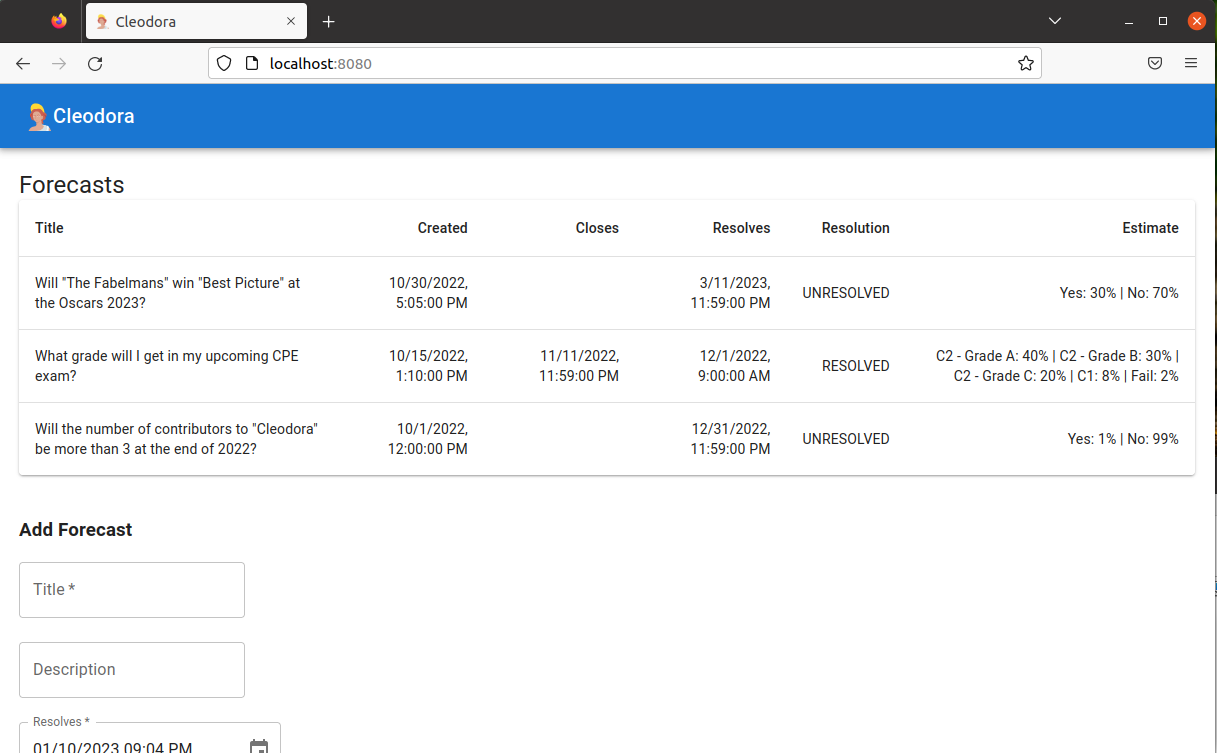
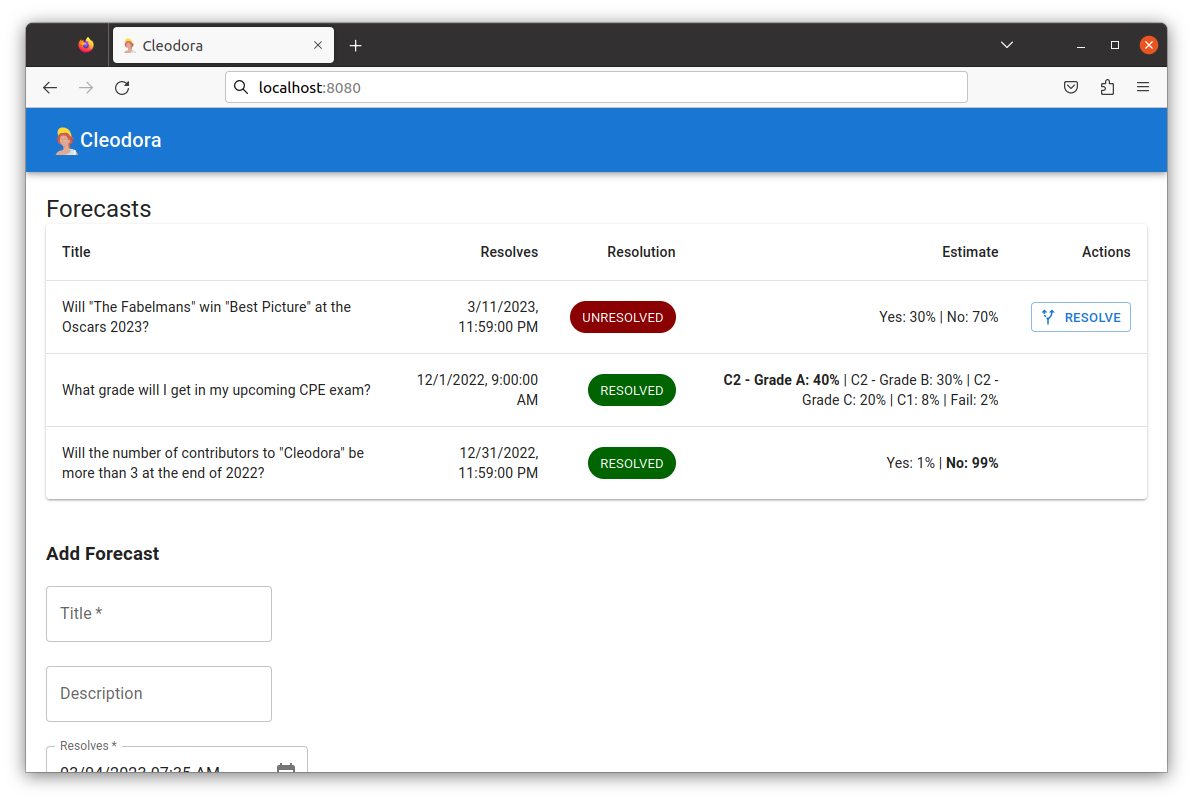
website: update for v0.2.0 (#292)

diff --git a/website/content/docs/user/cleosrv.md b/website/content/docs/user/cleosrv.md
@@ -11,7 +11,7 @@ bookToc: true
 
 # cleosrv
 
-**Latest release: 0.1.1**
+**Latest release: 0.2.0**
 
 `cleosrv` (Cleodora server) is the main application. It includes a beautiful
 web UI (user interface) that you can access from your browser as well as a
@@ -26,10 +26,10 @@ automatically created it if does not exist.
 ## Installing cleosrv
 
 Download the latest release for
-[Windows (64bit)](https://github.com/cleodora-forecasting/cleodora/releases/download/v0.1.1/cleosrv_0.1.1_windows_amd64.zip),
-[Linux (64bit)](https://github.com/cleodora-forecasting/cleodora/releases/download/v0.1.1/cleosrv_0.1.1_linux_amd64.tar.gz),
-[Linux ARM (64bit)](https://github.com/cleodora-forecasting/cleodora/releases/download/v0.1.1/cleosrv_0.1.1_linux_arm64.tar.gz) or
-[Mac OS (64bit)](https://github.com/cleodora-forecasting/cleodora/releases/download/v0.1.1/cleosrv_0.1.1_darwin_amd64.tar.gz).
+[Windows (64bit)](https://github.com/cleodora-forecasting/cleodora/releases/download/v0.2.0/cleosrv_0.2.0_Windows_64bit.zip),
+[Linux (64bit)](https://github.com/cleodora-forecasting/cleodora/releases/download/v0.2.0/cleosrv_0.2.0_Linux_64bit.tar.gz),
+[Linux ARM (64bit)](https://github.com/cleodora-forecasting/cleodora/releases/download/v0.2.0/cleosrv_0.2.0_Linux_ARM64.tar.gz) or
+[MacOS (64bit)](https://github.com/cleodora-forecasting/cleodora/releases/download/v0.2.0/cleosrv_0.2.0_macOS_64bit.tar.gz).
 
 Unpack the archive wherever you want it. There will only be a single executable
 inside named `cleosrv` or `cleosrv.exe`.

diff --git a/website/content/docs/user/cleoc.md b/website/content/docs/user/cleoc.md
@@ -11,7 +11,7 @@ bookToc: true
 
 # cleoc
 
-**Latest release: 0.1.1**
+**Latest release: 0.2.0**
 
 `cleoc` (Cleodora client) is a Cleodora CLI (command-line interface) client to
 interact with a `cleosrv` Cleodora server.
@@ -28,10 +28,10 @@ machine or somewhere else.
 ## Installing cleoc
 
 Download the latest release for
-[Windows (64bit)](https://github.com/cleodora-forecasting/cleodora/releases/download/v0.1.1/cleoc_0.1.1_windows_amd64.zip),
-[Linux (64bit)](https://github.com/cleodora-forecasting/cleodora/releases/download/v0.1.1/cleoc_0.1.1_linux_amd64.tar.gz),
-[Linux ARM (64bit)](https://github.com/cleodora-forecasting/cleodora/releases/download/v0.1.1/cleoc_0.1.1_linux_arm64.tar.gz) or
-[Mac OS (64bit)](https://github.com/cleodora-forecasting/cleodora/releases/download/v0.1.1/cleoc_0.1.1_darwin_amd64.tar.gz).
+[Windows (64bit)](https://github.com/cleodora-forecasting/cleodora/releases/download/v0.2.0/cleoc_0.2.0_Windows_64bit.zip),
+[Linux (64bit)](https://github.com/cleodora-forecasting/cleodora/releases/download/v0.2.0/cleoc_0.2.0_Linux_64bit.tar.gz),
+[Linux ARM (64bit)](https://github.com/cleodora-forecasting/cleodora/releases/download/v0.2.0/cleoc_0.2.0_Linux_ARM64.tar.gz) or
+[MacOS (64bit)](https://github.com/cleodora-forecasting/cleodora/releases/download/v0.2.0/cleoc_0.2.0_macOS_64bit.tar.gz).
 
 Unpack the archive wherever you want it. There will only be a single executable
 inside named `cleoc` or `cleoc.exe`.

diff --git a/website/content/docs/changelog.md b/website/content/docs/changelog.md
@@ -19,6 +19,11 @@ and this project adheres to [Semantic Versioning](https://semver.org/spec/v2.0.0
 
 ## Unreleased
 
+[Git history](https://github.com/cleodora-forecasting/cleodora/compare/v0.2.0...HEAD)
+
+
+## v0.2.0
+
 ### Added
 
 * API, Frontend: Resolve forecasts (i.e. decide which outcome was actually the
@@ -60,7 +65,7 @@ and this project adheres to [Semantic Versioning](https://semver.org/spec/v2.0.0
   making a forecast with a single outcome makes little or no sense.
 
 
-[Git history](https://github.com/cleodora-forecasting/cleodora/compare/v0.1.1...HEAD)
+[Git history](https://github.com/cleodora-forecasting/cleodora/compare/v0.1.1...v0.2.0)
 
 
 ## v0.1.1
